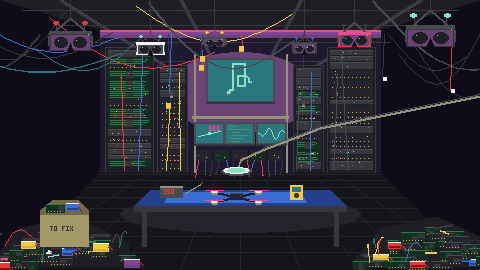
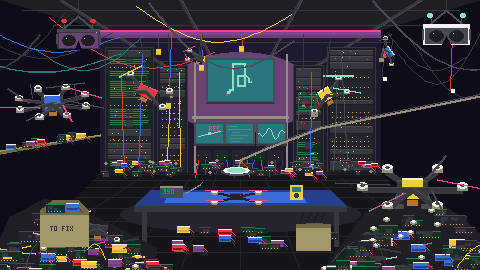
Lab: big drones, hanging wrecks, more e-waste, two pairs of goggles
- drone() helper: quads, hexes and octos seen from above, with snapped or
  dangling arms, missing props, and a tilt for drones hung from a cord
- An octocopter on the left wall, a heavy-lift hexacopter on the right heap,
  a crashed 7-inch in the left heap, four wrecks hanging from the ceiling
- More e-waste: along the back wall, under the bench, a crate of frames, a
  junk shelf, bigger heaps; the added clutter uses its own random stream so
  the rest of the scene is unchanged
- Goggles cut to two

Claude-Session: https://claude.ai/code/session_01UmY5gnHVZKbKAZ5r4hJAVp

diff --git a/site/shop.html b/site/shop.html
@@ -27,7 +27,7 @@
 </div></header>
 <main>
 <div class="lab-hero">
-  <img class="pixel" src="img/lab.png" width="1440" height="810" alt="luci3D's lab: server racks built from salvaged boards, cables and FPV goggles hanging from the ceiling, a workbench with a quad under a ring light, and piles of boards waiting to be fixed.">
+  <img class="pixel" src="img/lab.png" width="1440" height="810" alt="luci3D's lab: server racks built from salvaged boards, cables, goggles and wrecked drones hanging from the ceiling, an octocopter on the wall, a heavy-lift hexacopter on a heap of e-waste, and a workbench with a quad under a ring light.">
 </div>
 
 <section class="block"><div class="wrap">

diff --git a/art/lab/make_lab.py b/art/lab/make_lab.py
@@ -2,9 +2,10 @@
 """The Lab: luci3D's workshop, the shop page's header (and the game's lab).
 
 Half e-waste pile, half slapped-together supercomputer. Cables sag from the
-ceiling with FPV goggles hanging off them, ready to grab. Server racks built
-from salvaged boards blink at the back, a workbench sits under a magnifier lamp,
-and piles of boards, packs, props and frames wait to be fixed.
+ceiling with two pairs of FPV goggles hanging ready and wrecked drones dangling
+off cords. Server racks built from salvaged boards blink at the back, an
+octocopter hangs on the wall like a trophy, a heavy-lift hexacopter sits on a
+heap of e-waste, and a workbench waits under a ring light.
 
 One-point perspective, drawn at the street-view resolution (480 x 270) and
 scaled up with hard pixels. Flat shapes, no outlines, palette colours only.
@@ -70,6 +71,126 @@ def toward_vp(x, y, t):
 def sag(x0, y0, x1, y1, dip, n=24):
     return [(x0 + (x1 - x0) * i / n, y0 + (y1 - y0) * i / n + dip * math.sin(math.pi * i / n)) for i in range(n + 1)]
 
+
+CABLE = [IC_DARK, IC_DARK, IC_GREY, LOGO_RED, WIRE_YELLOW, WIRE_BLUE, IC_DARK, SIGNAL_TEAL_DEEP]
+SHADE_LIT = {}
+# ================================================================= the piles: boards, packs, props, frames
+def board(x, y, w, h, green):
+    x, y = int(x), int(y)
+    R(x, y, x + w, y + h, MASK if green else BLACK_TRACE)
+    R(x, y, x + w, y, TRACE_HIGHLIGHT if green else IC_GREY)
+    for i in range(rng.randrange(1, 4)):
+        cx, cy = x + rng.randrange(2, max(3, w - 4)), y + rng.randrange(2, max(3, h - 3))
+        R(cx, cy, cx + rng.randrange(2, 6), cy + rng.randrange(2, 4), IC_DARK)
+    for i in range(x + 2, x + w - 1, 3):
+        px(i, y + h - 1, ENIG_GOLD)
+
+
+def pack(x, y, w, h, col):
+    R(x, y, x + w, y + h, col)
+    R(x, y, x + w, y, SILKSCREEN_WHITE)
+    R(x + 1, y + h - 2, x + w - 1, y + h - 1, SHADE_DARK[col])
+    line([(x + w, y + 2), (x + w + 4, y + 6)], LOGO_RED)
+    line([(x + w, y + 4), (x + w + 4, y + 9)], IC_DARK)
+
+
+SHADE_DARK = {WIRE_YELLOW: ENIG_GOLD, WIRE_BLUE: WIRE_BLUE_DEEP, LOGO_RED: BURN_RED, GRAFFITI_PURPLE: DUSK_PURPLE}
+
+
+def pile(x0, x1, ybase, n, hgt=46, peak=0.5):
+    poly([(x0, ybase), (x0 + (x1 - x0) * peak * 0.4, ybase - hgt * 0.75), (x0 + (x1 - x0) * peak, ybase - hgt),
+          (x0 + (x1 - x0) * (0.5 + peak / 2), ybase - hgt * 0.7), (x1, ybase - hgt * 0.3), (x1, ybase + 4),
+          (x0, ybase + 4)], IC_BLACK)                                      # the heap's dark mass
+    for i in range(n):
+        t = rng.random()
+        x = x0 + (x1 - x0) * rng.random()
+        top = ybase - hgt * 0.85 * math.sin(math.pi * min(1, (x - x0) / (x1 - x0) / (2 * peak) if x - x0 < (x1 - x0) * peak
+                                                         else 0.5 + (x - x0 - (x1 - x0) * peak) / ((x1 - x0) * (1 - peak)) / 2))
+        y = rng.uniform(top, ybase)
+        k = rng.random()
+        if k < 0.45:
+            board(x, y, rng.randrange(10, 24), rng.randrange(6, 12), rng.random() < 0.5)
+        elif k < 0.65:
+            pack(x, y, rng.randrange(10, 16), rng.randrange(6, 9), rng.choice(list(SHADE_DARK)))
+        elif k < 0.8:                                                      # a broken prop
+            line([(x, y), (x + rng.randrange(8, 14), y - rng.randrange(-3, 4))], rng.choice([SIGNAL_PINK, WIRE_YELLOW, GLOW_TEAL]), 2)
+        elif k < 0.9:                                                      # a motor
+            ell(x, y, 3, 2, SILKSCREEN_SHADE)
+            ell(x, y - 1, 2, 1, SILKSCREEN_WHITE)
+        else:                                                              # a frame arm
+            line([(x, y), (x + rng.randrange(14, 24), y + rng.randrange(-6, 6))], IC_DARK, 3)
+    for i in range(6):                                                     # cables tangled over the top
+        xa = rng.uniform(x0, x1)
+        line(sag(xa, ybase - rng.randrange(10, 30), xa + rng.randrange(-30, 30), ybase - rng.randrange(0, 20),
+                 -rng.randrange(4, 12), 10), rng.choice(CABLE))
+
+
+
+
+def drone(cx, cy, r, arms=4, tilt=0.0, flat=0.42, broken=(), dangling=(), noprop=(), body=IC_DARK,
+          battery=None, gear=0, props=(SIGNAL_PINK, IC_GREY), led=GLOW_TEAL):
+    """A drone seen from slightly above. tilt (radians) rotates the whole thing, for drones
+    hanging off a wire. broken: arms snapped short. dangling: arms snapped and hanging by
+    their motor wires. noprop: motors that lost their prop."""
+    ca, sa = math.cos(tilt), math.sin(tilt)
+
+    def T(x, y):
+        return cx + x * ca - y * sa, cy + x * sa + y * ca
+    base = {4: 45, 6: 0, 8: 22.5}[arms]
+    angs = [math.radians(base + 360 * i / arms) for i in range(arms)]
+    aw = max(2, round(r / 9))
+    mr = max(2, r / 10)
+
+    def carbon(a, b):                                                    # a carbon arm with a lit top edge
+        line([a, b], IC_DARK, aw)
+        line([(a[0], a[1] - aw / 2), (b[0], b[1] - aw / 2)], IC_GREY)
+    if gear:                                                             # landing gear
+        for sx in (-1, 1):
+            line([T(sx * r * 0.25, 0), T(sx * r * 0.36, gear)], IC_GREY, max(1, aw - 1))
+            line([T(sx * r * 0.5, gear), T(sx * r * 0.18, gear)], IC_GREY, max(1, aw - 1))
+
+    def arm(i):
+        a = angs[i]
+        ex, ey = r * math.cos(a), r * math.sin(a) * flat
+        if i in broken:
+            carbon(T(0, 0), T(ex * 0.45, ey * 0.45))
+            px(*T(ex * 0.47, ey * 0.47), IC_GREY)                       # splintered carbon
+            return
+        if i in dangling:
+            hx, hy = ex * 0.5, ey * 0.5
+            carbon(T(0, 0), T(hx, hy))
+            fx, fy = T(hx, hy)
+            carbon((fx, fy), (fx + ex * 0.1, fy + r * 0.55))                  # the snapped half
+            line([(fx + 1, fy), (fx + 3, fy + r * 0.5)], LOGO_RED)          # motor wires
+            R(fx + ex * 0.1 - mr, fy + r * 0.55, fx + ex * 0.1 + mr, fy + r * 0.55 + mr * 1.3, SILKSCREEN_SHADE)
+            return
+        carbon(T(0, 0), T(ex, ey))
+        mx, my = T(ex, ey)
+        R(mx - mr, my - mr, mx + mr, my, SILKSCREEN_SHADE)               # motor bell
+        ell(mx, my - mr, mr, mr * 0.5, SILKSCREEN_WHITE)
+        ell(mx, my - mr, mr * 0.35, mr * 0.2, IC_GREY)
+        if i not in noprop:
+            pr, pa = r * 0.55, math.radians(25 + 53 * i)
+            c = props[i % len(props)]
+            line([(mx - pr * math.cos(pa), my - mr * 1.2 - pr * math.sin(pa) * flat),
+                  (mx + pr * math.cos(pa), my - mr * 1.2 + pr * math.sin(pa) * flat)], c, 2 if r >= 24 else 1)
+    far = [i for i in range(arms) if math.sin(angs[i]) < 0]
+    near = [i for i in range(arms) if math.sin(angs[i]) >= 0]
+    for i in far:
+        arm(i)
+    bw, bh = r * 0.3, r * 0.42 * flat + 1                                # the stack
+    poly([T(-bw, -bh), T(bw, -bh), T(bw, bh), T(-bw, bh)], body)
+    poly([T(-bw, -bh), T(bw, -bh), T(bw, -bh + 1), T(-bw, -bh + 1)], SHADE_LIT.get(body, IC_GREY))
+    poly([T(-bw, bh - 1), T(bw, bh - 1), T(bw, bh + 1), T(-bw, bh + 1)], IC_BLACK)
+    if battery:
+        poly([T(-bw * 0.7, -bh - 2), T(bw * 0.7, -bh - 2), T(bw * 0.7, bh - 2), T(-bw * 0.7, bh - 2)], battery)
+        poly([T(-bw * 0.7, -bh - 2), T(bw * 0.7, -bh - 2), T(bw * 0.7, -bh - 1), T(-bw * 0.7, -bh - 1)], SILKSCREEN_WHITE)
+    poly([T(-bw * 0.35, bh), T(bw * 0.35, bh), T(bw * 0.35, bh + mr), T(-bw * 0.35, bh + mr)], COPPER)  # camera cage
+    if led:
+        px(*T(bw * 0.6, 0), led)
+    for i in near:
+        arm(i)
+    return T
 
 # ================================================================= the room
 x0, y0, x1, y1 = BW
@@ -189,8 +310,37 @@ for xx in range(198, 286, 7):                                            # cable
     line(sag(xx, 160, xx + rng.randrange(-6, 6), 172 + rng.randrange(0, 6), rng.randrange(2, 6), 8),
          rng.choice([IC_DARK, IC_GREY, WIRE_BLUE, LOGO_RED]))
 
+# junk heaped along the foot of the back wall (own random stream: keeps the original scene stable)
+rng, _rng_main = random.Random(21), rng
+for i in range(70):
+    x = rng.uniform(x0 - 2, x1 - 8)
+    y = rng.uniform(160, 172)
+    k = rng.random()
+    if k < 0.5:
+        board(x, y, rng.randrange(5, 11), rng.randrange(3, 6), rng.random() < 0.5)
+    elif k < 0.75:
+        pack(x, y, rng.randrange(5, 8), 3, rng.choice(list(SHADE_DARK)))
+    else:
+        ell(x, y, 1.5, 1, SILKSCREEN_SHADE)
+
+# shelves on the left wall, loaded with junk and a big octocopter
+for ys in (150,):
+    a, b = (0, ys), toward_vp(0, ys, 0.4167)
+    poly([a, b, (b[0], b[1] + 2), (a[0], a[1] + 4)], FR4_SHADE)
+    poly([a, b, (b[0], b[1] + 1), (a[0], a[1] + 1)], FR4_EDGE)
+    for i in range(12):
+        t = rng.uniform(0.02, 0.38)
+        x, y = toward_vp(0, ys, t)
+        if rng.random() < 0.6:
+            board(x, y - rng.randrange(4, 8), rng.randrange(6, 12), rng.randrange(4, 7), rng.random() < 0.5)
+        else:
+            pack(x, y - 5, rng.randrange(6, 10), 4, rng.choice(list(SHADE_DARK)))
+drone(52, 104, 36, arms=8, tilt=-0.06, props=(IC_GREY, SIGNAL_PINK), noprop=(5,), battery=WIRE_BLUE)   # wall trophy
+for hx in (30, 74):
+    line([(hx, 84), (hx + 2, 98)], IC_GREY)
+rng = _rng_main
+
 # ================================================================= ceiling: cables and hanging goggles
-CABLE = [IC_DARK, IC_DARK, IC_GREY, LOGO_RED, WIRE_YELLOW, WIRE_BLUE, IC_DARK, SIGNAL_TEAL_DEEP]
 anchors = []
 for i in range(16):                                                      # sagging runs across the ceiling
     xa = rng.randrange(-40, W + 40)
@@ -242,7 +392,22 @@ def goggles(cx, top, size, body=IC_DARK, foam=DUSK_PURPLE, ant=LOGO_RED):
     R(cx + w / 2, y + h * 0.25, cx + w / 2 + max(1, size), y + h * 0.75, IC_GREY)
 
 
-SHADE_LIT = {IC_DARK: IC_GREY, SILKSCREEN_WHITE: SILKSCREEN_WHITE, IC_BLACK: IC_DARK, LOGO_RED: SIGNAL_PINK}
+def hang(top_x, cx, cy, r, **kw):
+    """A wrecked drone hung from the ceiling by one cord."""
+    T = drone(cx, cy, r, **kw)
+    hx, hy = T(0, -r * 0.2)
+    line([(top_x, max(0, toward_vp(top_x, 0, 0.35)[1])), (hx, hy)], IC_DARK)
+
+
+SHADE_LIT.update({IC_DARK: IC_GREY, SILKSCREEN_WHITE: SILKSCREEN_WHITE, IC_BLACK: IC_DARK, LOGO_RED: SIGNAL_PINK,
+                  WIRE_BLUE: GLOW_TEAL})
+
+rng, _rng_main = random.Random(33), rng
+hang(140, 146, 92, 30, tilt=0.42, broken=(1,), noprop=(0, 3), props=(WIRE_YELLOW,), body=LOGO_RED, led=None)
+hang(330, 326, 96, 27, tilt=-0.55, dangling=(2,), noprop=(1,), props=(GLOW_TEAL,), battery=WIRE_YELLOW, led=None)
+hang(200, 198, 58, 15, tilt=0.25, broken=(0, 3), props=(SIGNAL_PINK,), led=None)
+hang(392, 388, 52, 17, tilt=0.95, broken=(3,), dangling=(1,), noprop=(0,), props=(IC_GREY,), body=WIRE_BLUE, led=None)
+rng = _rng_main
 
 # ================================================================= workbench
 bench = [(150, 190), (330, 190), (346, 206), (134, 206)]
@@ -281,57 +446,23 @@ ell(236, 171, 15, 4, IC_GREY)                                                # r
 ell(236, 170, 13, 3, SILKSCREEN_WHITE)
 ell(236, 170, 9, 2, GLOW_TEAL)
 
-# ================================================================= the piles: boards, packs, props, frames
-def board(x, y, w, h, green):
-    x, y = int(x), int(y)
-    R(x, y, x + w, y + h, MASK if green else BLACK_TRACE)
-    R(x, y, x + w, y, TRACE_HIGHLIGHT if green else IC_GREY)
-    for i in range(rng.randrange(1, 4)):
-        cx, cy = x + rng.randrange(2, max(3, w - 4)), y + rng.randrange(2, max(3, h - 3))
-        R(cx, cy, cx + rng.randrange(2, 6), cy + rng.randrange(2, 4), IC_DARK)
-    for i in range(x + 2, x + w - 1, 3):
-        px(i, y + h - 1, ENIG_GOLD)
-
-
-def pack(x, y, w, h, col):
-    R(x, y, x + w, y + h, col)
-    R(x, y, x + w, y, SILKSCREEN_WHITE)
-    R(x + 1, y + h - 2, x + w - 1, y + h - 1, SHADE_DARK[col])
-    line([(x + w, y + 2), (x + w + 4, y + 6)], LOGO_RED)
-    line([(x + w, y + 4), (x + w + 4, y + 9)], IC_DARK)
-
-
-SHADE_DARK = {WIRE_YELLOW: ENIG_GOLD, WIRE_BLUE: WIRE_BLUE_DEEP, LOGO_RED: BURN_RED, GRAFFITI_PURPLE: DUSK_PURPLE}
-
-
-def pile(x0, x1, ybase, n):
-    poly([(x0, ybase), (x0 + (x1 - x0) * 0.2, ybase - 34), (x0 + (x1 - x0) * 0.6, ybase - 46),
-          (x1, ybase - 20), (x1, ybase + 4), (x0, ybase + 4)], IC_BLACK)    # the heap's dark mass
-    for i in range(n):
-        t = rng.random()
-        x = x0 + (x1 - x0) * rng.random()
-        top = ybase - 40 * math.sin(math.pi * (x - x0) / (x1 - x0)) * 0.9
-        y = rng.uniform(top, ybase)
-        k = rng.random()
-        if k < 0.45:
-            board(x, y, rng.randrange(10, 24), rng.randrange(6, 12), rng.random() < 0.5)
-        elif k < 0.65:
-            pack(x, y, rng.randrange(10, 16), rng.randrange(6, 9), rng.choice(list(SHADE_DARK)))
-        elif k < 0.8:                                                      # a broken prop
-            line([(x, y), (x + rng.randrange(8, 14), y - rng.randrange(-3, 4))], rng.choice([SIGNAL_PINK, WIRE_YELLOW, GLOW_TEAL]), 2)
-        elif k < 0.9:                                                      # a motor
-            ell(x, y, 3, 2, SILKSCREEN_SHADE)
-            ell(x, y - 1, 2, 1, SILKSCREEN_WHITE)
-        else:                                                              # a frame arm
-            line([(x, y), (x + rng.randrange(14, 24), y + rng.randrange(-6, 6))], IC_DARK, 3)
-    for i in range(6):                                                     # cables tangled over the top
-        xa = rng.uniform(x0, x1)
-        line(sag(xa, ybase - rng.randrange(10, 30), xa + rng.randrange(-30, 30), ybase - rng.randrange(0, 20),
-                 -rng.randrange(4, 12), 10), rng.choice(CABLE))
-
-
-pile(-10, 128, 262, 46)
-pile(352, 492, 262, 46)
+rng, _rng_main = random.Random(44), rng
+for i in range(18):                                                      # junk under the bench
+    x = rng.uniform(150, 320)
+    y = rng.uniform(222, 246)
+    if rng.random() < 0.6:
+        board(x, y, rng.randrange(10, 20), rng.randrange(5, 9), rng.random() < 0.5)
+    else:
+        pack(x, y, rng.randrange(10, 14), rng.randrange(5, 8), rng.choice(list(SHADE_DARK)))
+R(296, 224, 330, 250, FR4_EDGE)                                          # a crate of spare frames
+R(296, 224, 330, 227, FR4_SHADE)
+for i in range(4):
+    line([(300 + i * 7, 222), (304 + i * 7, 212)], IC_BLACK, 2)
+pile(-14, 156, 268, 92, hgt=70, peak=0.35)
+pile(324, 494, 268, 92, hgt=74, peak=0.6)
+drone(412, 190, 50, arms=6, gear=16, battery=WIRE_YELLOW, props=(SIGNAL_PINK, IC_GREY), noprop=(4,))   # heavy-lift hex
+drone(98, 230, 28, arms=4, tilt=0.15, broken=(3,), noprop=(0,), props=(WIRE_YELLOW,), led=None)  # a crashed 7-incher
+rng = _rng_main
 # a cardboard box of things to fix
 R(40, 210, 88, 246, FR4_EDGE)
 R(40, 210, 88, 214, FR4_SHADE)
@@ -341,9 +472,7 @@ board(46, 204, 18, 8, True)
 pack(66, 203, 12, 7, WIRE_BLUE)
 
 # hanging goggles in front of everything else, near ones bigger
-for (cx, top, size, body, ant) in [(70, 18, 1.1, IC_DARK, LOGO_RED), (150, 34, 0.7, SILKSCREEN_WHITE, GLOW_TEAL),
-                                   (214, 30, 0.55, IC_DARK, WIRE_YELLOW), (304, 36, 0.6, IC_DARK, WIRE_BLUE),
-                                   (354, 22, 0.85, LOGO_RED, IC_DARK), (430, 10, 1.25, IC_DARK, GLOW_TEAL)]:
+for (cx, top, size, body, ant) in [(78, 16, 1.1, IC_DARK, LOGO_RED), (446, 10, 1.2, SILKSCREEN_WHITE, GLOW_TEAL)]:
     line([(cx, 0), (cx, top)], IC_DARK)                                    # hook cord from the ceiling
     goggles(cx, top, size, body, IC_GREY if body == SILKSCREEN_WHITE else DUSK_PURPLE, ant)
 
